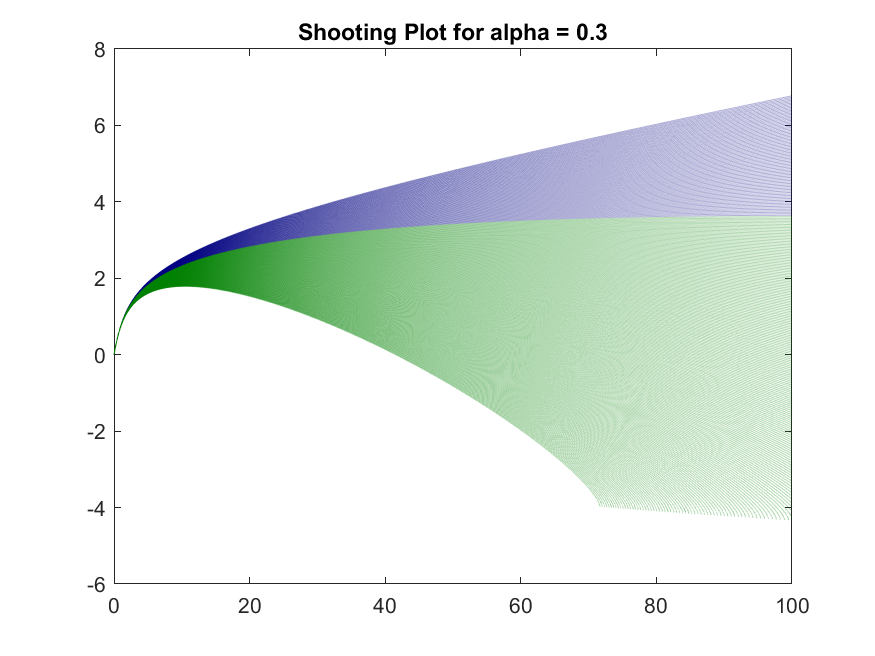
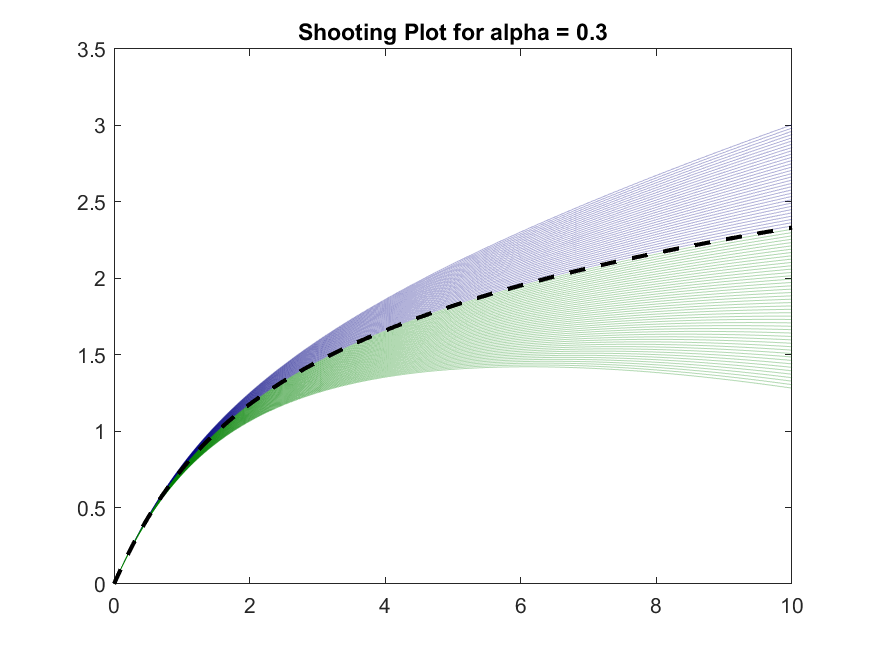
fmcl

diff --git a/figs/fig3.m b/figs/fig3.m
@@ -3,7 +3,9 @@ figure()
 % So, first we fix an alpha
 alpha = .3; 
 L = 100; 
-kappas = -linspace(.54, .6, 300);
+kappas = -linspace(.5, .64, 80);
+
+Lplt = 10;
 
 % Define most of the ODE
 diff = @(t, y) [y(2); y(3); y(1)*((-y(3))^(2-alpha))/(alpha*(alpha+1))];
@@ -11,7 +13,13 @@ ivs = [0; 1; 0];
 dom = [0 L];
 options = odeset('RelTol',1e-10,'AbsTol',1e-15);
 
-for kappa = kappas
+n_kappas = length(kappas);
+all_t = cell(n_kappas, 1);
+all_y1 = cell(n_kappas, 1);
+all_is_green = false(n_kappas, 1);
+
+for idx = 1:n_kappas
+    kappa = kappas(idx);
     ivs(3) = kappa;
     [t, y] = ode15s(diff, dom, ivs, options);
     y=real(y);
@@ -19,15 +27,38 @@ for kappa = kappas
     kappa
     col1 = [0 0.5 0 .3];
     col = [0 0 0.5 .3];
-     if ~isempty(pks)
+    if ~isempty(pks)
         col=col1;
+        all_is_green(idx) = true;
     end
+    all_t{idx} = t;
+    all_y1{idx} = y(:,1);
     % Plot the result
     plot(t, y(:,1), 'Color', col, 'DisplayName', num2str(kappa)); hold on
     % if ~isempty(pks)
     %     plot(locs(1), pks(1), 'm*')
     % end
 end
+
+% Find the boundary pair: last blue (largest-magnitude kappa still blue)
+% and the consecutive green just past it, then plot their arithmetic mean.
+blue_idxs = find(~all_is_green);
+if ~isempty(blue_idxs)
+    last_blue = max(blue_idxs);
+    next_idx = last_blue + 1;
+    if next_idx <= n_kappas && all_is_green(next_idx)
+        t1 = all_t{last_blue};  y1 = all_y1{last_blue};
+        t2 = all_t{next_idx};   y2 = all_y1{next_idx};
+        t_end = min(t1(end), t2(end));
+        tc = linspace(0, t_end, 2000);
+        yc1 = interp1(t1, y1, tc);
+        yc2 = interp1(t2, y2, tc);
+        y_mean = (yc1 + yc2) / 2;
+        plot(tc, y_mean, 'k--', 'LineWidth', 2);
+    end
+end
+
+xlim([0 Lplt]);
 
 title(['Shooting Plot for alpha = ' num2str(alpha)])
 saveas(gcf, 'fig3.png')

diff --git a/figs/fig6.m b/figs/fig6.m
@@ -11,7 +11,13 @@ ivs = [0; 1; 0];
 dom = [0 L];
 options = odeset('RelTol',1e-10,'AbsTol',1e-15);
 
-for kappa = kappas
+n_kappas = length(kappas);
+all_t = cell(n_kappas, 1);
+all_y1 = cell(n_kappas, 1);
+all_is_green = false(n_kappas, 1);
+
+for idx = 1:n_kappas
+    kappa = kappas(idx);
     ivs(3) = kappa;
     [t, y] = ode15s(diff, dom, ivs, options);
     y=real(y);
@@ -19,14 +25,35 @@ for kappa = kappas
     kappa
     col1 = [0 0.5 0 .3];
     col = [0 0 0.5 .3];
-     if ~isempty(pks)
+    if ~isempty(pks)
         col=col1;
+        all_is_green(idx) = true;
     end
+    all_t{idx} = t;
+    all_y1{idx} = y(:,1);
     % Plot the result
     plot(t, y(:,1), 'Color', col, 'DisplayName', num2str(kappa)); hold on
     % if ~isempty(pks)
     %     plot(locs(1), pks(1), 'm*')
     % end
+end
+
+% Find the boundary pair: last blue (largest-magnitude kappa still blue)
+% and the consecutive green just past it, then plot their arithmetic mean.
+blue_idxs = find(~all_is_green);
+if ~isempty(blue_idxs)
+    last_blue = max(blue_idxs);
+    next_idx = last_blue + 1;
+    if next_idx <= n_kappas && all_is_green(next_idx)
+        t1 = all_t{last_blue};  y1 = all_y1{last_blue};
+        t2 = all_t{next_idx};   y2 = all_y1{next_idx};
+        t_end = min(t1(end), t2(end));
+        tc = linspace(0, t_end, 2000);
+        yc1 = interp1(t1, y1, tc);
+        yc2 = interp1(t2, y2, tc);
+        y_mean = (yc1 + yc2) / 2;
+        plot(tc, y_mean, 'k--', 'LineWidth', 2);
+    end
 end
 
 title(['Shooting Plot for alpha = ' num2str(alpha)])